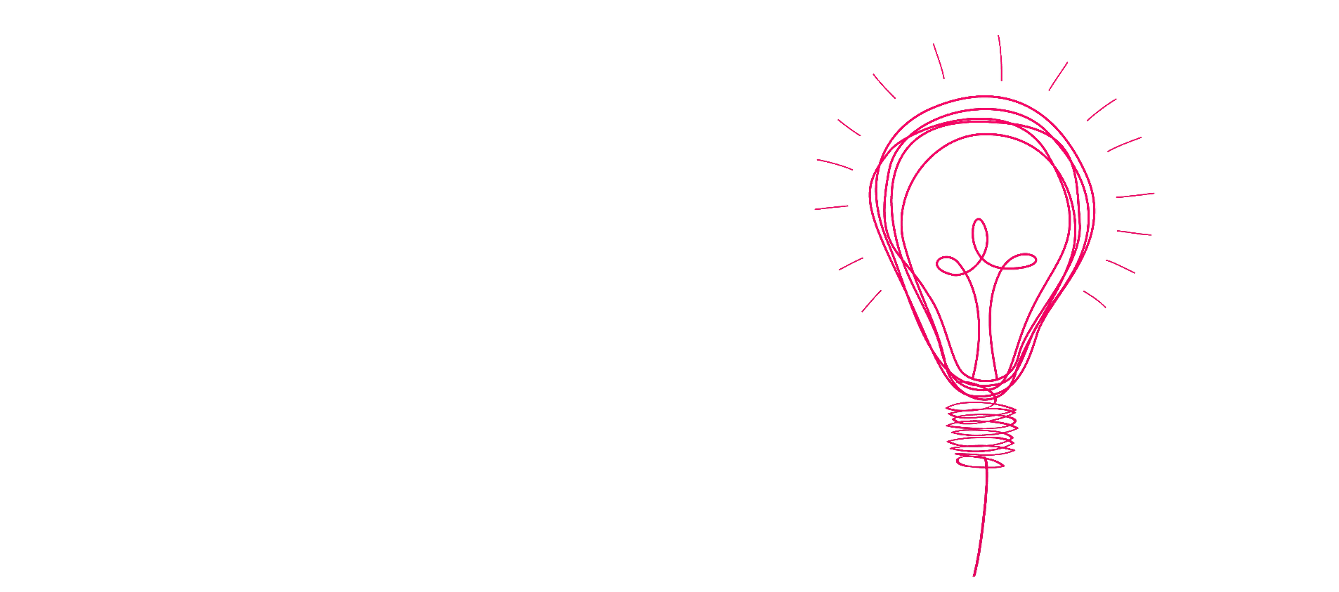
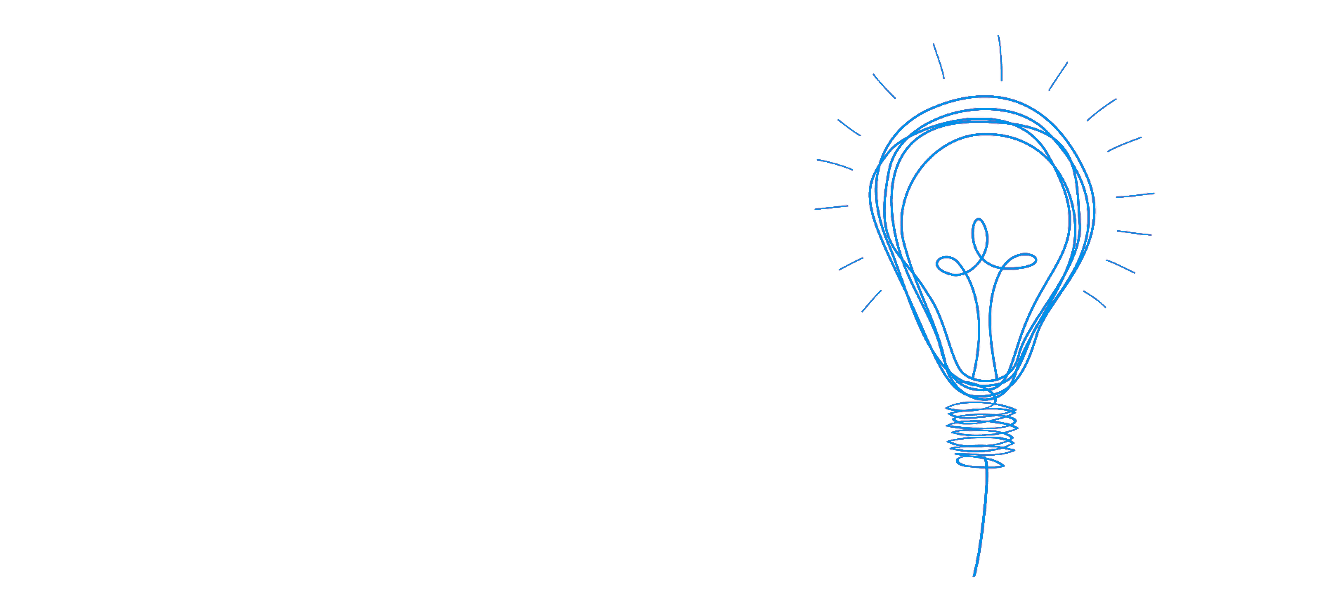
[WIP] Updated theme color and moved toolbar to app component

Changed region(s): [[0.643, 0.152, 0.8267, 0.8209], [0.7043, 0.3649, 0.7349, 0.3953]]

diff --git a/src/app/app.module.ts b/src/app/app.module.ts
@@ -7,6 +7,7 @@ import { BrowserAnimationsModule } from '@angular/platform-browser/animations';
 import { AppComponent } from './app.component';
 import { RouterModule } from '../../node_modules/@angular/router';
 import { DashboardModule } from './modules/dashboard/dashboard.module';
+import { MaterialModule } from './modules/material/material.module';
 
 @NgModule({
   declarations: [
@@ -15,6 +16,7 @@ import { DashboardModule } from './modules/dashboard/dashboard.module';
   imports: [
     BrowserModule,
     FrontModule,
+    MaterialModule,
     DashboardModule,
     BrowserAnimationsModule,
     RouterModule.forRoot(opRoutes)

diff --git a/src/app/modules/front/landing/landing.component.html b/src/app/modules/front/landing/landing.component.html
@@ -1,12 +1,4 @@
 <div fxLayout="column">
-  <div fxFlex>
-    <mat-toolbar color="primary">
-      <mat-toolbar-row>
-        <span>Opinionize</span>
-        <span class="op-spacer"></span>
-      </mat-toolbar-row>
-    </mat-toolbar>
-  </div>
   <div fxFlex class="op-header" fxLayout>
     <div fxFlex class="op-header-cover" fxLayout>
       <div fxFlex="35" fxLayout>

diff --git a/src/app/modules/front/landing/landing.component.scss b/src/app/modules/front/landing/landing.component.scss
@@ -1,13 +1,3 @@
-.op-spacer{
-  flex: 1 1 auto;
-}
-
-mat-toolbar{
-  min-height: 52px;
-  height: 54px;
-  font-family: inherit;
-}
-
 .op-header-cover {
   background: rgba(63, 63, 63, 0.09);
   padding: 2% 8%;
@@ -25,7 +15,7 @@ mat-toolbar{
 }
 
 .op-main-head-highlight {
-  color: #ff0266 !important;
+  color: #0091EA !important;
   font-weight: bold;
 }
 

diff --git a/src/app/app.component.html b/src/app/app.component.html
@@ -1,2 +1,9 @@
 <!--The content below is only a placeholder and can be replaced.-->
+<mat-toolbar color="primary">
+  <mat-toolbar-row>
+    <span>Opinionize</span>
+    <span class="op-spacer"></span>
+  </mat-toolbar-row>
+</mat-toolbar>
 <router-outlet></router-outlet>
+

diff --git a/src/theme/opinionize-theme.scss b/src/theme/opinionize-theme.scss
@@ -2,7 +2,7 @@
 
 @include mat-core();
 
-$op-theme-primary: mat-palette($mat-pink, 500);
+$op-theme-primary: mat-palette($mat-light-blue, A700);
 $op-theme-accent: mat-palette($mat-gray, 300);
 $op-theme-warn: mat-palette($mat-red);
 

diff --git a/src/app/app.component.scss b/src/app/app.component.scss
@@ -1,1 +1,11 @@
 @import './../theme/opinionize-theme';
+
+.op-spacer{
+  flex: 1 1 auto;
+}
+
+mat-toolbar{
+  min-height: 52px;
+  height: 54px;
+  font-family: inherit;
+}
